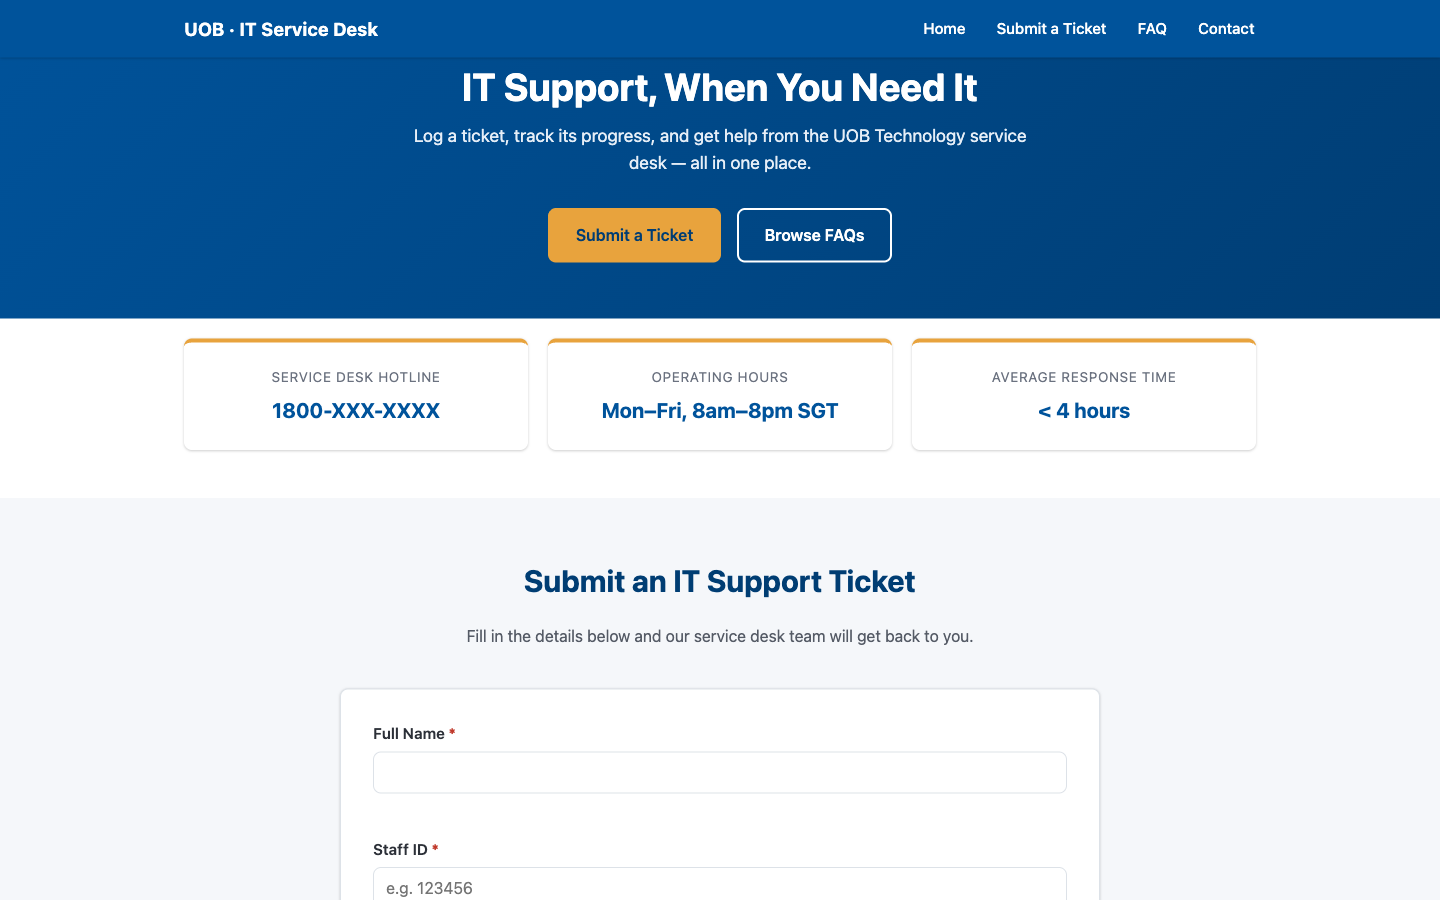
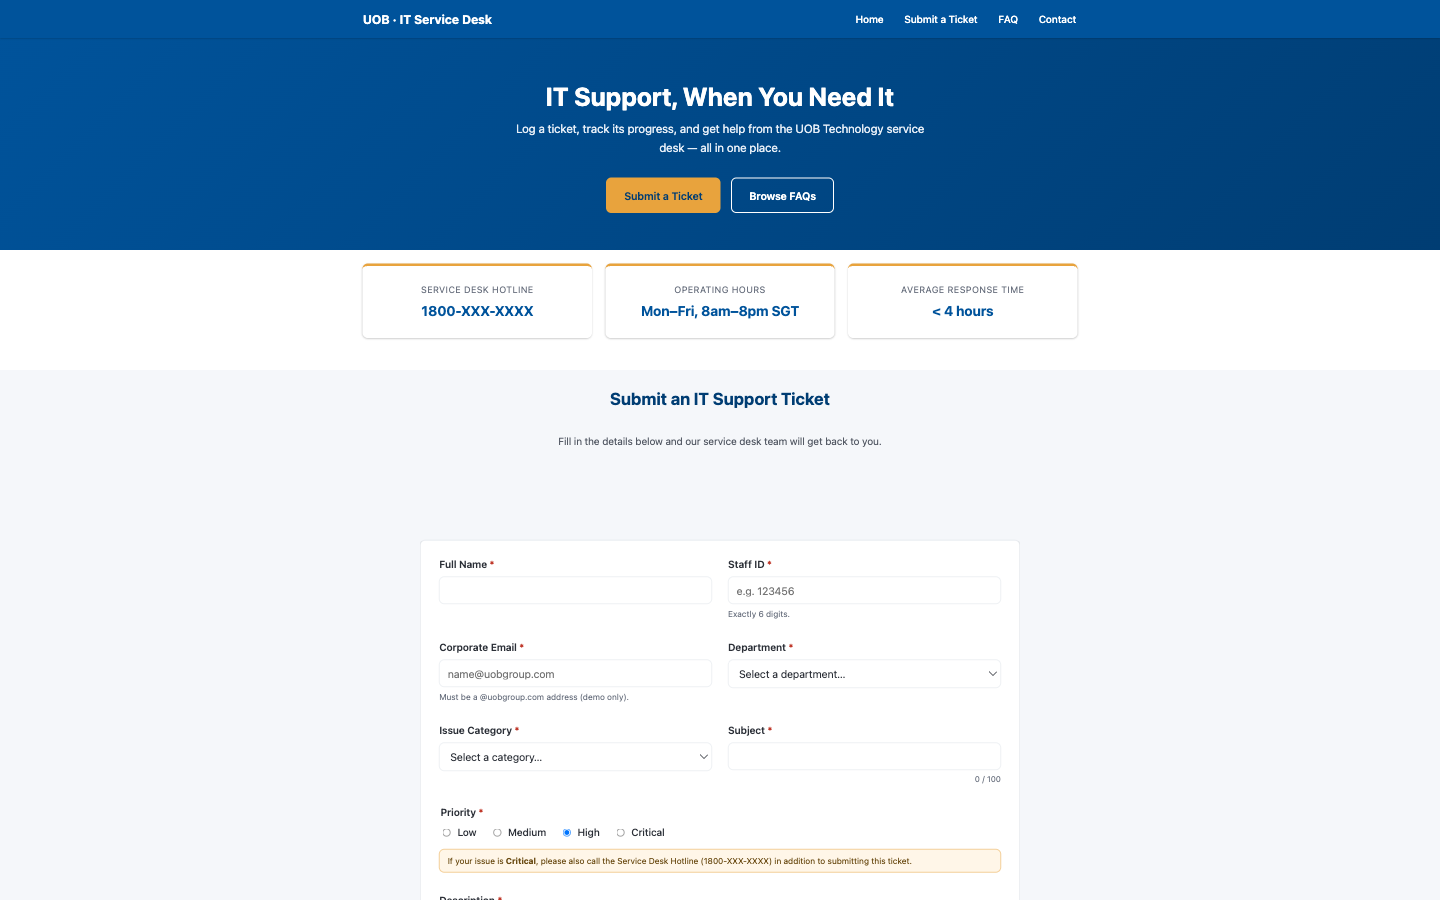
Revamp ticket form: 2-column responsive grid, single-screen layout, High default priority
Restructures the ticket-form section into a 20% heading / 80% form split that fits
all fields without scrolling on typical desktop viewports, arranges fields into a
responsive 2-column grid (collapsing to 1 column on mobile), defaults Priority to
High, and fixes anchor-link scroll offset so the sticky nav no longer clips the
section heading.

diff --git a/index.html b/index.html
@@ -21,10 +21,11 @@
     --shadow: 0 1px 3px rgba(0,0,0,0.12), 0 1px 2px rgba(0,0,0,0.08);
     --max-width: 1120px;
     --font: -apple-system, BlinkMacSystemFont, "Segoe UI", Roboto, Helvetica, Arial, sans-serif;
+    --header-h: 58px;
   }
 
   * { box-sizing: border-box; }
-  html { scroll-behavior: smooth; }
+  html { scroll-behavior: smooth; scroll-padding-top: var(--header-h); }
   body {
     margin: 0;
     font-family: var(--font);
@@ -218,19 +219,66 @@
   .section-heading p {
     color: #555b66;
   }
+  .ticket-section .section-heading h2 {
+    font-size: 1.6rem;
+  }
+  .ticket-section .section-heading p {
+    margin-bottom: 0;
+    font-size: 0.95rem;
+  }
 
-  /* ===== Ticket form ===== */
+  /* ===== Ticket form section — 20% heading / 80% form, single screen ===== */
+  .ticket-section {
+    scroll-margin-top: var(--header-h);
+    min-height: calc(100vh - var(--header-h));
+    min-height: calc(100svh - var(--header-h));
+    display: flex;
+    flex-direction: column;
+    padding: 1.75rem 0;
+  }
+  .ticket-section .container {
+    display: flex;
+    flex-direction: column;
+    flex: 1;
+    min-height: 0;
+  }
+  .ticket-section .section-heading {
+    flex: 0 0 20%;
+    display: flex;
+    flex-direction: column;
+    justify-content: center;
+    margin-bottom: 0;
+  }
+  .ticket-form-wrap {
+    flex: 1 1 80%;
+    min-height: 0;
+    display: flex;
+    align-items: center;
+    overflow: auto;
+  }
   .form-card {
     background: #fff;
     border: 1px solid var(--border);
     border-radius: var(--radius);
     box-shadow: var(--shadow);
-    padding: 2rem;
-    max-width: 760px;
+    padding: 1.5rem 1.75rem;
+    max-width: 900px;
+    width: 100%;
+    max-height: 100%;
+    overflow: auto;
     margin: 0 auto;
   }
+  .form-grid {
+    display: grid;
+    grid-template-columns: 1fr 1fr;
+    gap: 0.75rem 1.5rem;
+  }
+  .form-grid .span-2 {
+    grid-column: 1 / -1;
+  }
   .form-row {
-    margin-bottom: 1.4rem;
+    margin-bottom: 0;
+    min-width: 0;
   }
   .form-row label,
   .form-row legend {
@@ -258,7 +306,7 @@
   }
   .form-row textarea {
     resize: vertical;
-    min-height: 120px;
+    min-height: 64px;
   }
   .form-row input[aria-invalid="true"],
   .form-row select[aria-invalid="true"],
@@ -266,22 +314,22 @@
     border-color: var(--error);
   }
   .help-text {
-    font-size: 0.82rem;
+    font-size: 0.78rem;
     color: #6B7280;
-    margin-top: 0.35rem;
+    margin-top: 0.25rem;
   }
   .char-counter {
-    font-size: 0.8rem;
+    font-size: 0.76rem;
     color: #6B7280;
     text-align: right;
-    margin-top: 0.3rem;
+    margin-top: 0.2rem;
   }
   .error-message {
     display: block;
     color: var(--error);
-    font-size: 0.85rem;
-    margin-top: 0.4rem;
-    min-height: 1.1em;
+    font-size: 0.8rem;
+    margin-top: 0.25rem;
+    min-height: 1em;
   }
   fieldset {
     border: none;
@@ -304,9 +352,9 @@
     background: #FFF6E8;
     border: 1px solid var(--uob-gold);
     border-radius: var(--radius);
-    padding: 0.6rem 0.85rem;
-    font-size: 0.85rem;
-    margin-top: 0.75rem;
+    padding: 0.45rem 0.75rem;
+    font-size: 0.78rem;
+    margin-top: 0.5rem;
     color: #6b4c14;
   }
   .checkbox-row {
@@ -332,12 +380,12 @@
     border: 1px solid var(--error);
     color: #7a231a;
     border-radius: var(--radius);
-    padding: 0.7rem 0.9rem;
-    font-size: 0.85rem;
-    margin-top: 0.5rem;
+    padding: 0.55rem 0.8rem;
+    font-size: 0.8rem;
+    margin-top: 0.4rem;
   }
   .submit-bar {
-    margin-top: 1.75rem;
+    margin-top: 0.25rem;
   }
 
   /* Success panel */
@@ -508,6 +556,10 @@
     .footer-grid { grid-template-columns: 1fr; gap: 1.75rem; }
     .form-card { padding: 1.25rem; }
     .priority-options { flex-direction: column; gap: 0.6rem; }
+    .ticket-section { min-height: 0; padding: 3rem 0; }
+    .ticket-section .section-heading { flex-basis: auto; margin-bottom: 1.5rem; }
+    .ticket-form-wrap { flex-basis: auto; overflow: visible; align-items: stretch; }
+    .form-grid { grid-template-columns: 1fr; }
   }
 </style>
 </head>
@@ -565,15 +617,17 @@
   </section>
 
   <!-- ===================== TICKET FORM ===================== -->
-  <section id="ticket-form" class="alt-bg" aria-labelledby="ticket-form-heading">
+  <section id="ticket-form" class="alt-bg ticket-section" aria-labelledby="ticket-form-heading">
     <div class="container">
       <div class="section-heading">
         <h2 id="ticket-form-heading">Submit an IT Support Ticket</h2>
         <p>Fill in the details below and our service desk team will get back to you.</p>
       </div>
 
+      <div class="ticket-form-wrap">
       <div class="form-card">
         <form id="ticketForm" novalidate>
+          <div class="form-grid">
 
           <!-- Full Name -->
           <div class="form-row">
@@ -630,21 +684,6 @@
             <span class="error-message" id="category-error" role="alert"></span>
           </div>
 
-          <!-- Priority -->
-          <div class="form-row">
-            <fieldset aria-describedby="priority-error">
-              <legend>Priority <span class="required-mark">*</span></legend>
-              <div class="priority-options">
-                <label><input type="radio" name="priority" value="Low"> Low</label>
-                <label><input type="radio" name="priority" value="Medium"> Medium</label>
-                <label><input type="radio" name="priority" value="High"> High</label>
-                <label><input type="radio" name="priority" value="Critical"> Critical</label>
-              </div>
-              <div class="priority-note">If your issue is <strong>Critical</strong>, please also call the Service Desk Hotline (1800-XXX-XXXX) in addition to submitting this ticket.</div>
-              <span class="error-message" id="priority-error" role="alert"></span>
-            </fieldset>
-          </div>
-
           <!-- Subject -->
           <div class="form-row">
             <label for="subject">Subject <span class="required-mark">*</span></label>
@@ -653,8 +692,23 @@
             <span class="error-message" id="subject-error" role="alert"></span>
           </div>
 
+          <!-- Priority -->
+          <div class="form-row span-2">
+            <fieldset aria-describedby="priority-error">
+              <legend>Priority <span class="required-mark">*</span></legend>
+              <div class="priority-options">
+                <label><input type="radio" name="priority" value="Low"> Low</label>
+                <label><input type="radio" name="priority" value="Medium"> Medium</label>
+                <label><input type="radio" name="priority" value="High" checked> High</label>
+                <label><input type="radio" name="priority" value="Critical"> Critical</label>
+              </div>
+              <div class="priority-note">If your issue is <strong>Critical</strong>, please also call the Service Desk Hotline (1800-XXX-XXXX) in addition to submitting this ticket.</div>
+              <span class="error-message" id="priority-error" role="alert"></span>
+            </fieldset>
+          </div>
+
           <!-- Description -->
-          <div class="form-row">
+          <div class="form-row span-2">
             <label for="description">Description <span class="required-mark">*</span></label>
             <textarea id="description" name="description" aria-describedby="description-counter description-error" required></textarea>
             <div class="char-counter" id="description-counter">0 characters (minimum 20)</div>
@@ -681,8 +735,10 @@
             <span class="error-message" id="confirmAccurate-error" role="alert"></span>
           </div>
 
-          <div class="submit-bar">
+          <div class="submit-bar span-2">
             <button type="submit" class="btn btn-primary">Submit Ticket</button>
+          </div>
+
           </div>
         </form>
 
@@ -699,6 +755,7 @@
           </dl>
           <button type="button" class="btn btn-secondary" id="resetFormBtn" style="color:#1E7A44;border-color:#1E7A44;">Submit another ticket</button>
         </div>
+      </div>
       </div>
     </div>
   </section>
@@ -921,8 +978,8 @@
     { field: fields.email, run: validateEmail },
     { field: fields.department, run: validateDepartment },
     { field: fields.category, run: validateCategory },
-    { field: form.querySelector('input[name="priority"]'), run: validatePriority },
     { field: fields.subject, run: validateSubject },
+    { field: form.querySelector('input[name="priority"]'), run: validatePriority },
     { field: fields.description, run: validateDescription },
     { field: fields.confirmAccurate, run: validateConfirmAccurate }
   ];
